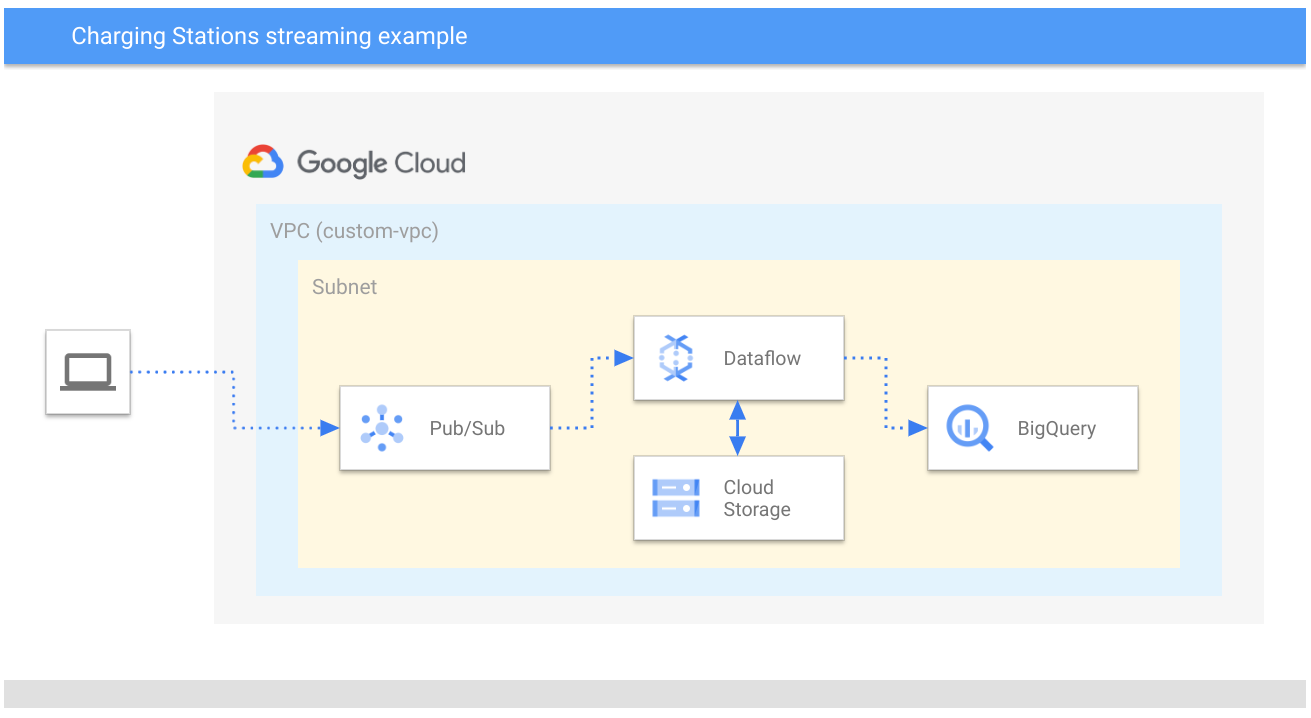
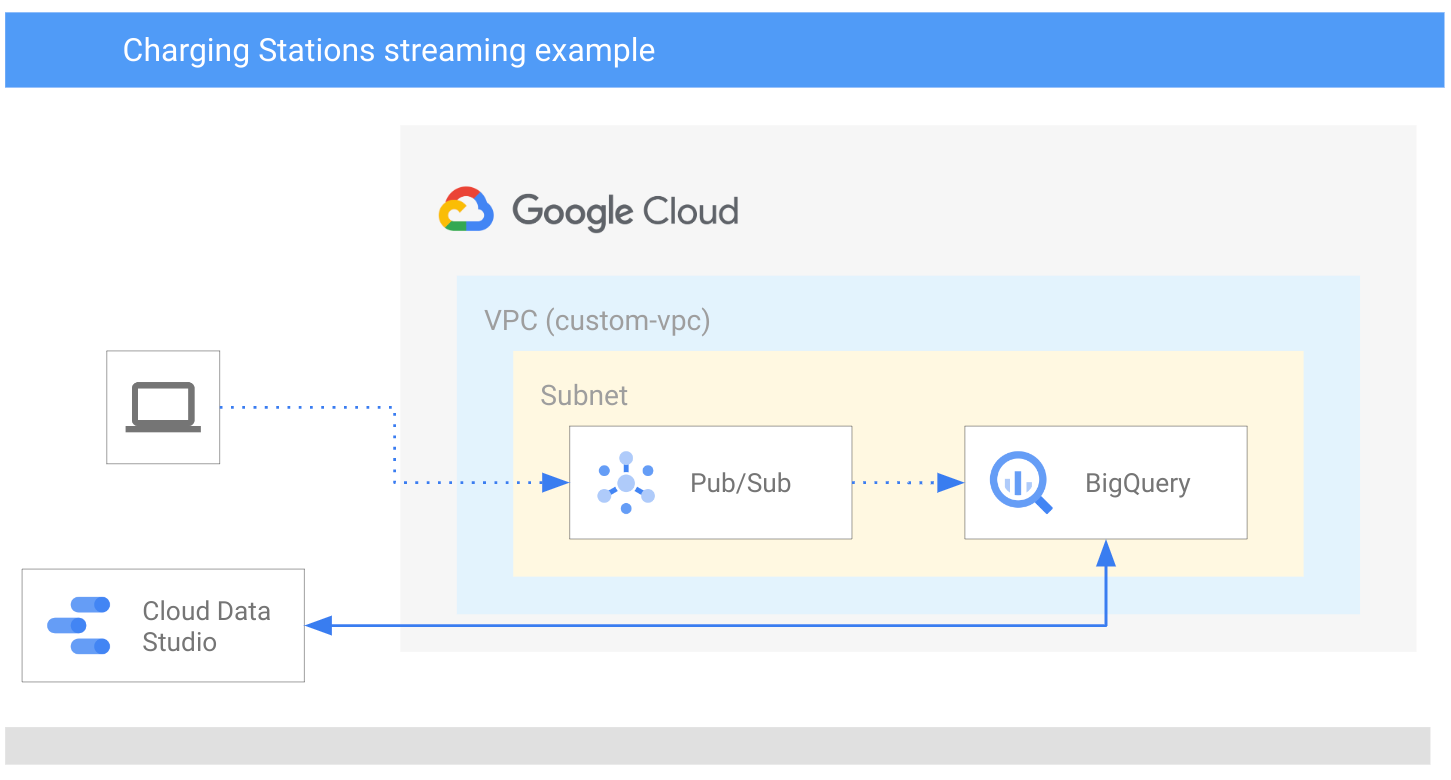
update picture

diff --git a/README.md b/README.md
@@ -1,5 +1,5 @@
 # gcp-streaming-chargingstations
-Simple ELT example using Pub/Sub, DataFlow, BigQuery and GeoViz. The example uses car charging stations data, which is complemented with fictive charger status.
+Simple ELT example using Pub/Sub, BigQuery and GeoViz. The example uses car charging stations data, which is complemented with fictive charger status.
 
 
 ## Overall architecture
@@ -17,11 +17,10 @@ Simple ELT example using Pub/Sub, DataFlow, BigQuery and GeoViz. The example use
 │   ├── 0.png
 │   ├── 1.png
 │   └── 2.png
-├── network.tf (vpc and subnet)
 ├── README.md (this file)
 ├── stations.csv (sample data)
 ├── storage.tf (blob storage for sample file)
-├── streaming.tf (pub/sub and dataflow)
+├── pubsub.tf (pub/sub)
 ├── terraform.tfvars.json (environment variables - not commited)
 ├── update_stations.py (station status generator)
 └── vars.tf (variables configuration)
